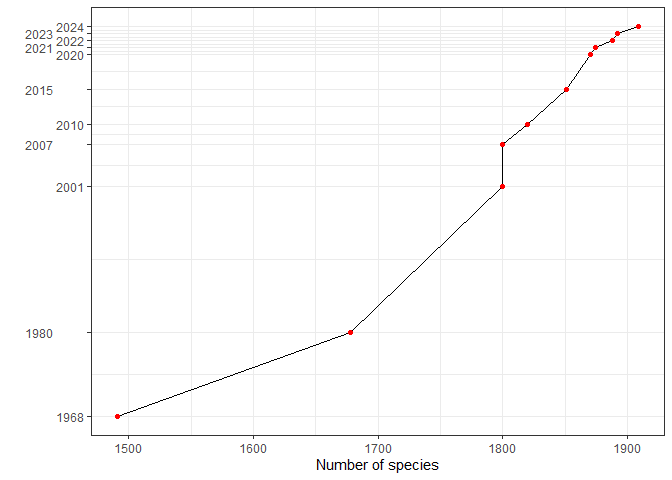
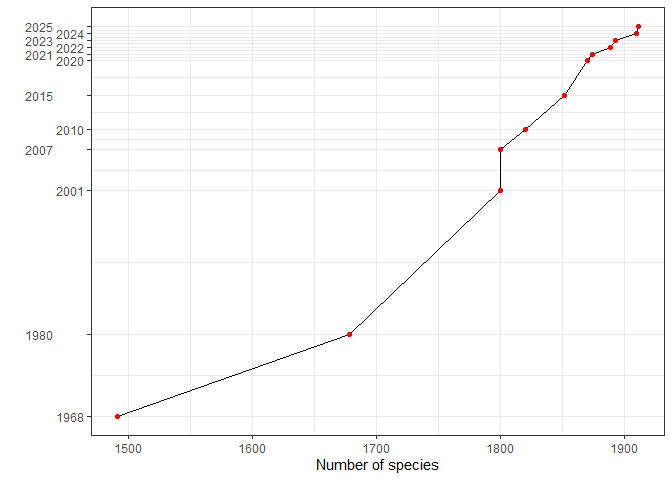
version 0.0.4

diff --git a/README.md b/README.md
@@ -1,9 +1,7 @@
 
 <!-- README.md is generated from README.Rmd. Please edit that file -->
 
-# avesperu
-
-## <a href='https://github.com/PaulESantos/avesperu'><img src='man/figures/avesperu.svg' align="right" height="370" width="180" /></a>
+# avesperu <a href='https://github.com/PaulESantos/avesperu'><img src='man/figures/avesperu.svg' align="right" height="250" width="220" /></a>
 
 <!-- badges: start -->
 
@@ -19,33 +17,43 @@ stable](https://img.shields.io/badge/lifecycle-stable-brightgreen.svg)](https://
 <!-- badges: end -->
 
 The `avesperu` package provides access to the most up-to-date and
-comprehensive dataset on Peru’s avian diversity. As of **December 2,
-2024**, the list includes **1,909 bird species**, reflecting significant
+comprehensive dataset on Peru’s avian diversity. As of **February 6,
+2025**, the list includes **1,911 bird species**, reflecting significant
 advancements in taxonomy and the validation of species records. These
 updates are based on articles, photographs, and sound recordings
 archived in accredited institutions, and follow the classification
-endorsed by the **South American Checklist Committee (SACC)**.
+endorsed by the South American Checklist Committee (SACC).
 
 ### Species Categories
 
 Each species in the dataset is classified into one of the following
 categories, reflecting its status in Peru:
 
-- **X (Resident)**: 1,542 species  
-- **E (Endemic)**: 117 species  
-- **NB (Migratory)**: 138 species  
-- **V (Vagrant)**: 83 species  
-- **IN (Introduced)**: 3 species  
-- **EX (Extirpated)**: 0 species  
-- **H (Hypothetical)**: 26 species
+- **X Resident**: 1,542 species
+- **E Endemic**: 117 species
+- **NB Migratory**: 138 species
+- **V Vagrant**: 83 species
+- **IN Introduced**: 3 species
+- **EX Extirpated**: 0 species
+- **H Hypothetical**: 26 species
 
-This results in a total of **1,909 species**, demonstrating Peru’s
+This results in a total of 1,911 species, demonstrating Peru’s
 incredible avian richness.
 
-The `avesperu` package is designed to streamline access to this data for
-researchers, conservationists, and bird enthusiasts alike, providing
-tools for taxonomy validation and species data retrieval using advanced
-fuzzy matching capabilities.
+### Features
+
+- The `avesperu` package is designed to streamline access to this data
+  for researchers, conservationists, and bird enthusiasts alike. It
+  provides:
+
+- A comprehensive and updated bird species dataset following the latest
+  SACC classification.
+
+- Taxonomy validation tools, ensuring consistency with international
+  standards.
+
+- Fuzzy matching capabilities for improved species name retrieval and
+  validation.
 
 <img src="man/figures/README-unnamed-chunk-2-1.png" width="100%" />
 
@@ -53,7 +61,7 @@ Here’s an enhanced analysis of the provided information, focusing on the
 trends and implications for Peru’s avian biodiversity:
 
 - The chart depicts the steady increase in the number of bird species
-  recorded in Peru from 1968 to 2024, showcasing the country’s
+  recorded in Peru from 1968 to 2025, showcasing the country’s
   remarkable progress in avian taxonomy and biodiversity documentation.
   Over the decades, several key trends emerge:
 
@@ -62,12 +70,12 @@ trends and implications for Peru’s avian biodiversity:
 The species count grew substantially between 1968 (1,491 species) and
 1980 (1,678 species), reflecting early efforts in exploration and
 classification. Post-2000, the growth rate appears more stable, with key
-updates in 2010, 2020, and culminating in 2024 with 1,909 species.
+updates in 2010, 2020, and culminating in 2025 with 1,911 species.
 
 ### Categorical Analysis:
 
 - Most of the species belong to the “Resident” (X) category, accounting
-  for **1,542 species**, while **117 species** are classified as
+  for **1,542 species**, while **118 species** are classified as
   **endemic,** showcasing Peru’s unique biodiversity.
 
 - Hypothetical species (“H”) contribute 26 species, emphasizing the
@@ -120,7 +128,7 @@ Here’s a quick example of how to use the `avesperu` package:
 
 ``` r
 library(avesperu)
-#> This is avesperu 0.0.3
+#> This is avesperu 0.0.4
 
 splist <- c("Falco sparverius",
             "Tinamus osgodi",
